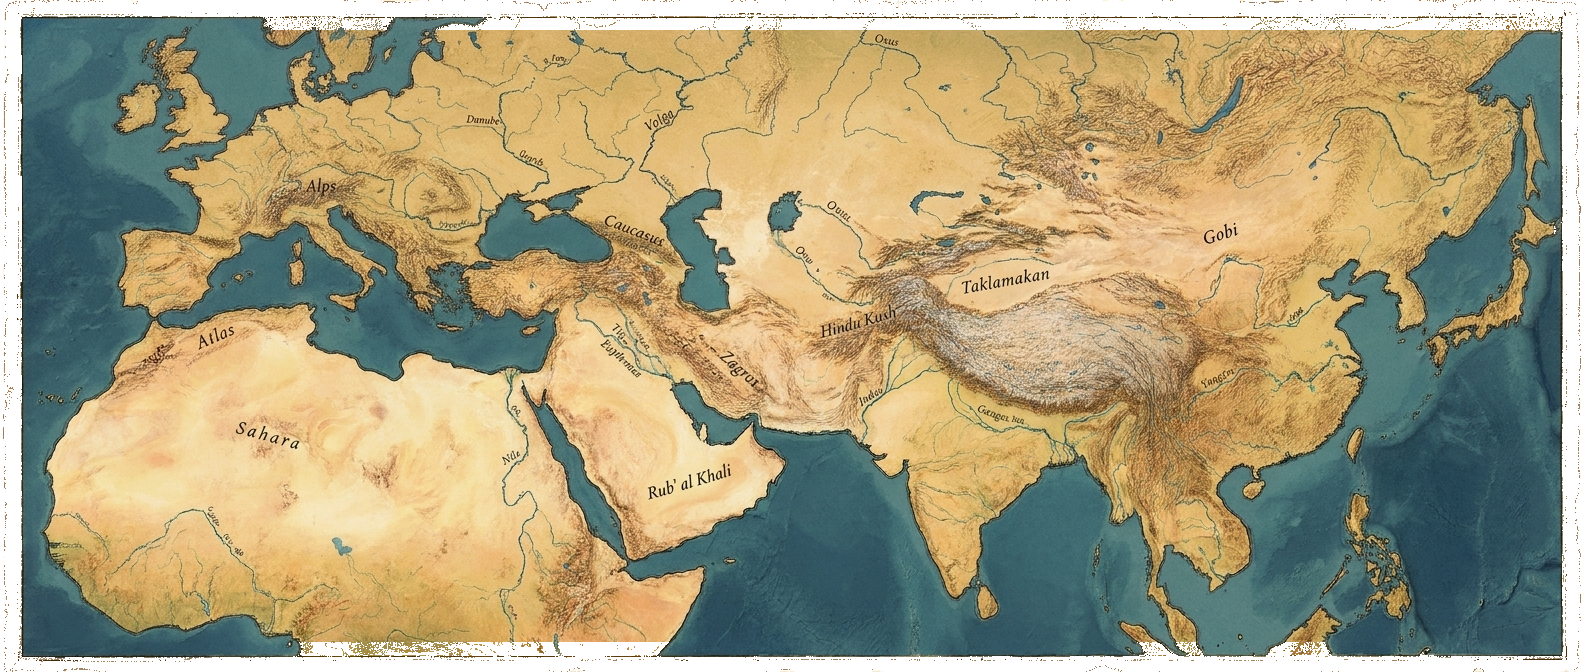
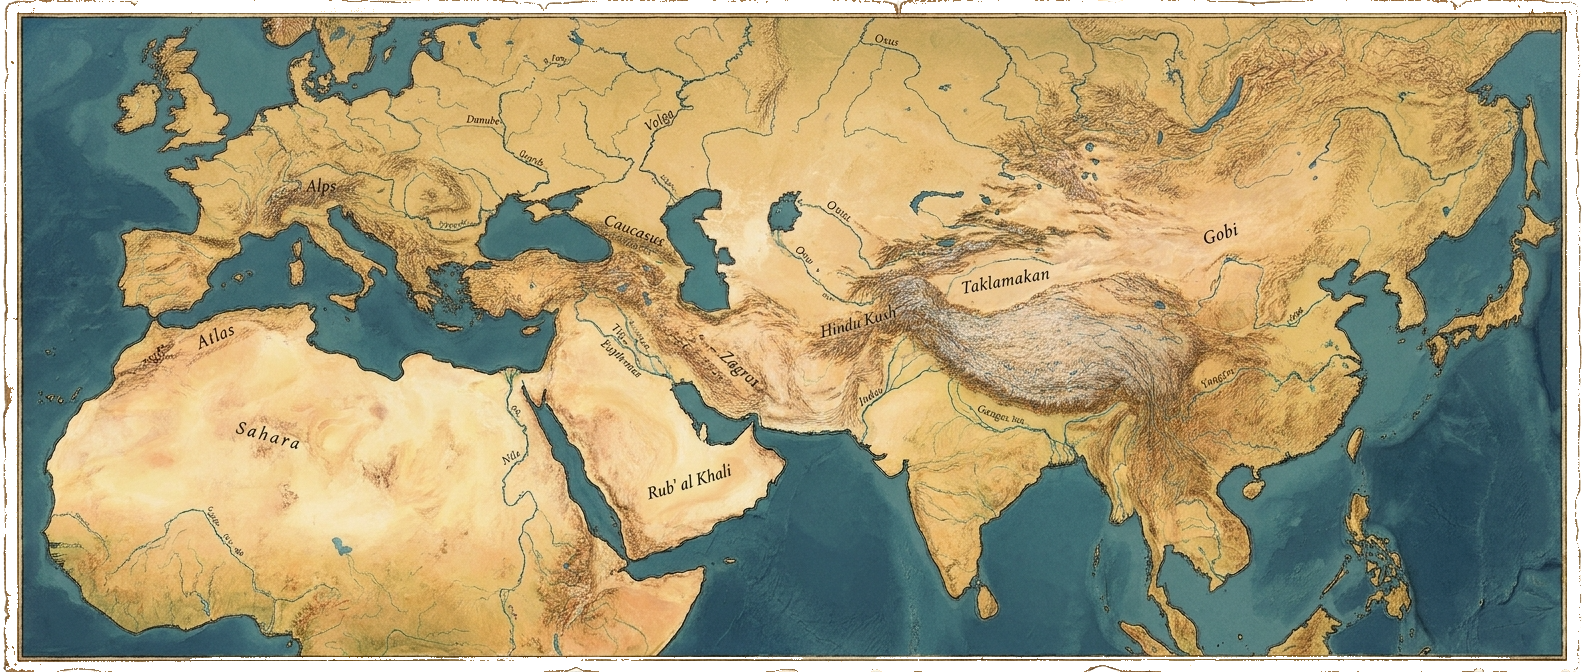
Restore clean post-flood-fill PNG; center map with even 100px gutters
The cream-halo and gold-frame strip passes left the perimeter looking
worse than the prior state — the user explicitly said the version from
2-3 hours ago (post-flood-fill, untouched perimeter) was better. PNG
reverted from commit 1945acf, with painted gold frame, cream parchment,
and chipped torn-paper edges all intact.

Layout reworked for uniform 100px indigo gutter on all four sides:

  wrap:       3080 x 1435   (was 3240 x 1440)
  PNG:        left=100, top=100, width=2880, height=1235
  SVG:        left=100, top=-2,  width=2880, height=1440

(Confirmed with Gemini 2.5 Pro.) Pin alignment preserved: SVG_top=-2
shifts the SVG so viewBox y=85 lands at wrap-pixel 100, matching the
painted PNG's top edge.

diff --git a/styles.css b/styles.css
@@ -279,21 +279,20 @@ html, body {
   top: 50%; left: 50%;
   transform-origin: center;
   transition: transform 0.08s linear;
-  /* The wrap is 360px wider than the SVG intrinsic size so the gold
-     border around the map ends up with comfortable indigo padding on
-     every side instead of being flush against the wrap on left/right. */
-  width: 3240px;
-  height: 1440px;
+  /* Wrap sized exactly to give a uniform 100px indigo gutter on every
+     side of the painted map content (which is 2880x1235 at display
+     resolution). Wrap = content + 2*gutter. */
+  width: 3080px;
+  height: 1435px;
 }
 
-/* Painted base map — original 1584x672 PNG with flood-filled torn edges
-   (chips/dings transparent so the indigo shows through them). Positioned
-   inside the 3240px wrap with 180px of indigo padding on each horizontal
-   side, vertically anchored at top=102 to leave letterbox above and below. */
+/* Painted base map — 1584x672 PNG with flood-filled torn edges (chips
+   transparent so indigo shows through them). Positioned with a uniform
+   100px gutter to all wrap edges. */
 .base-map-img {
   position: absolute;
-  left: 180px;
-  top: 102px;
+  left: 100px;
+  top: 100px;
   width: 2880px;
   height: 1235px;
   pointer-events: none;
@@ -301,12 +300,15 @@ html, body {
   -webkit-user-drag: none;
 }
 
+/* SVG overlay — pins are in viewBox 0..2400 x 0..1200, but the painted
+   PNG content covers viewBox y=85..1114 (a 1029-unit window). To make
+   pin y=85 land at wrap-pixel 100 (the painted PNG's top edge), the SVG
+   has to start 2px above the wrap top: 100 - 85*1.2 = -2. */
 .map-svg {
   display: block;
   position: absolute;
-  /* Match the base-map shift so pins line up with the painted content. */
-  left: 180px;
-  top: 0;
+  left: 100px;
+  top: -2px;
   z-index: 1;
 }
 
